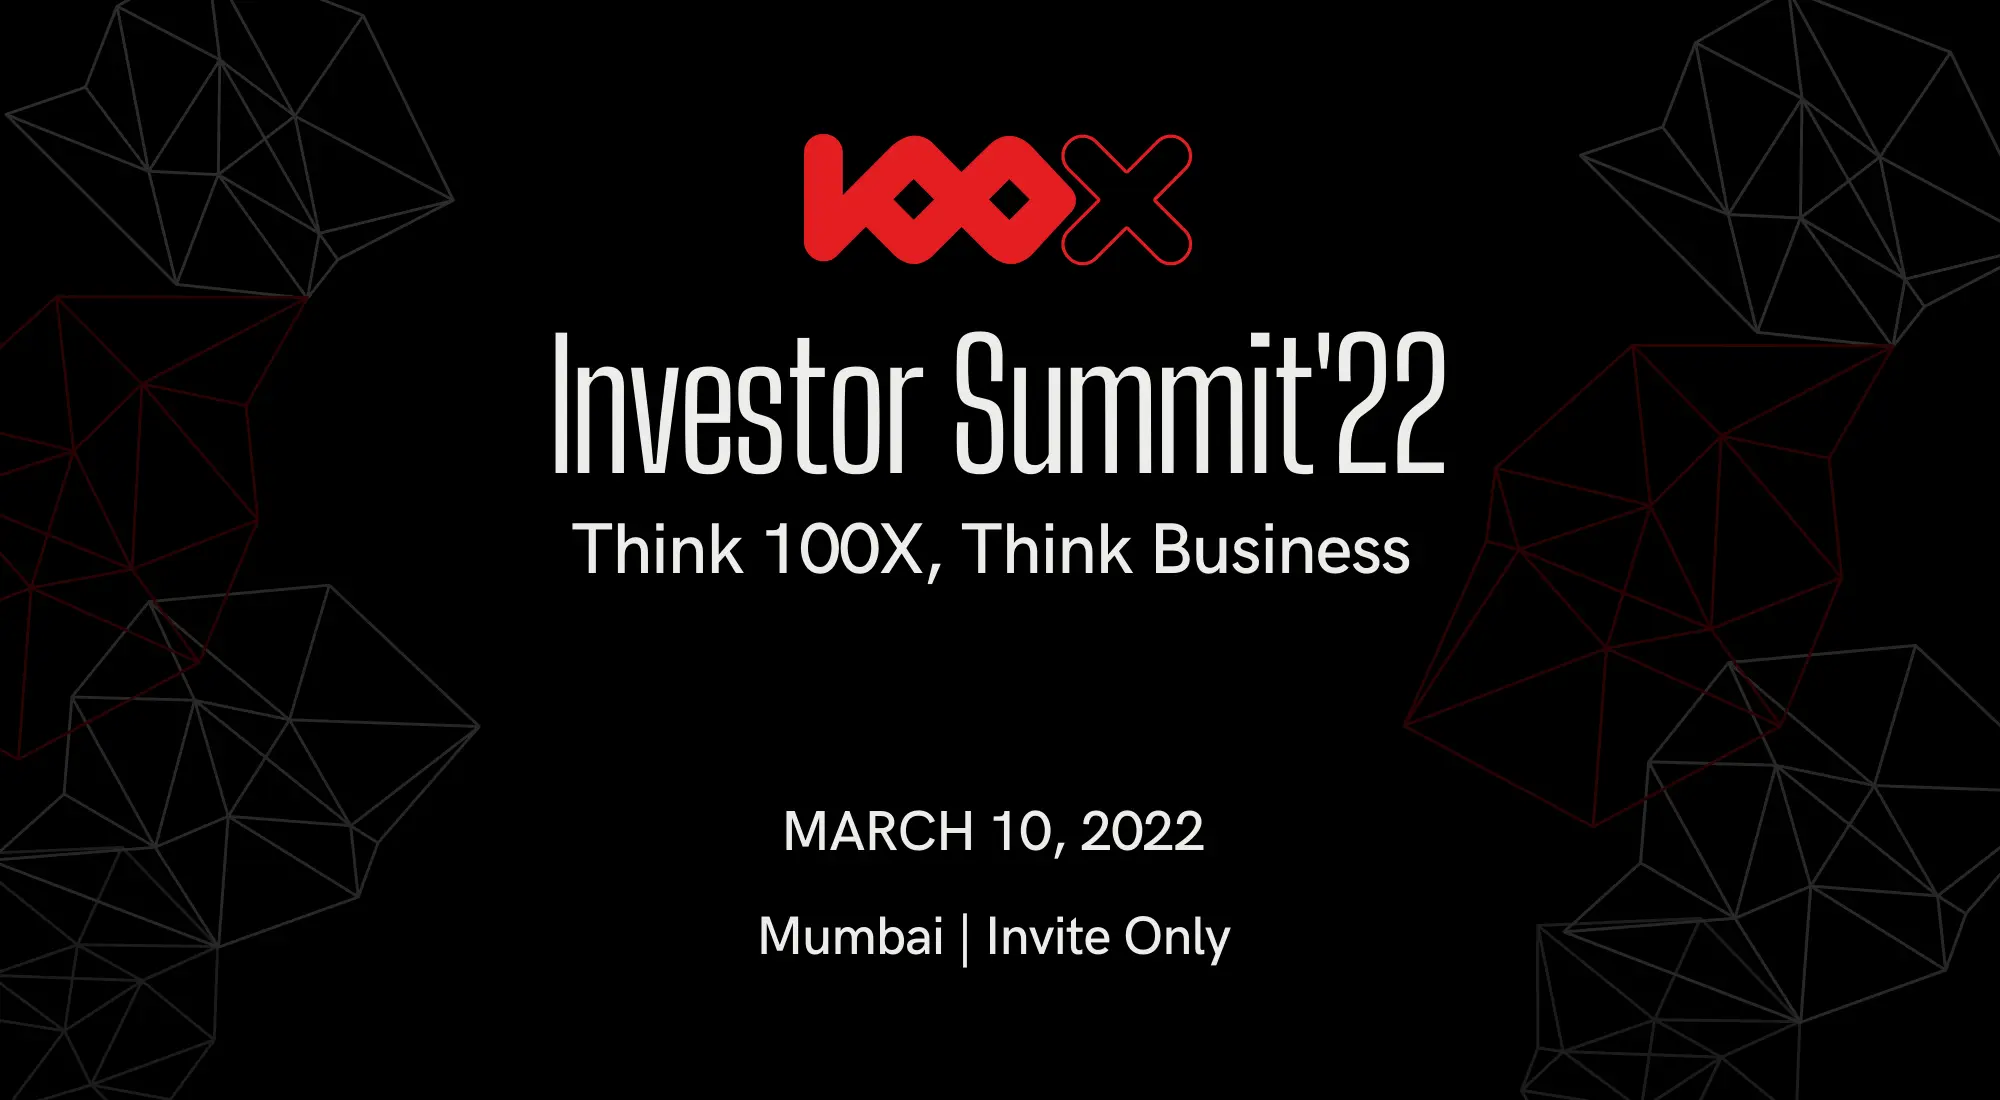
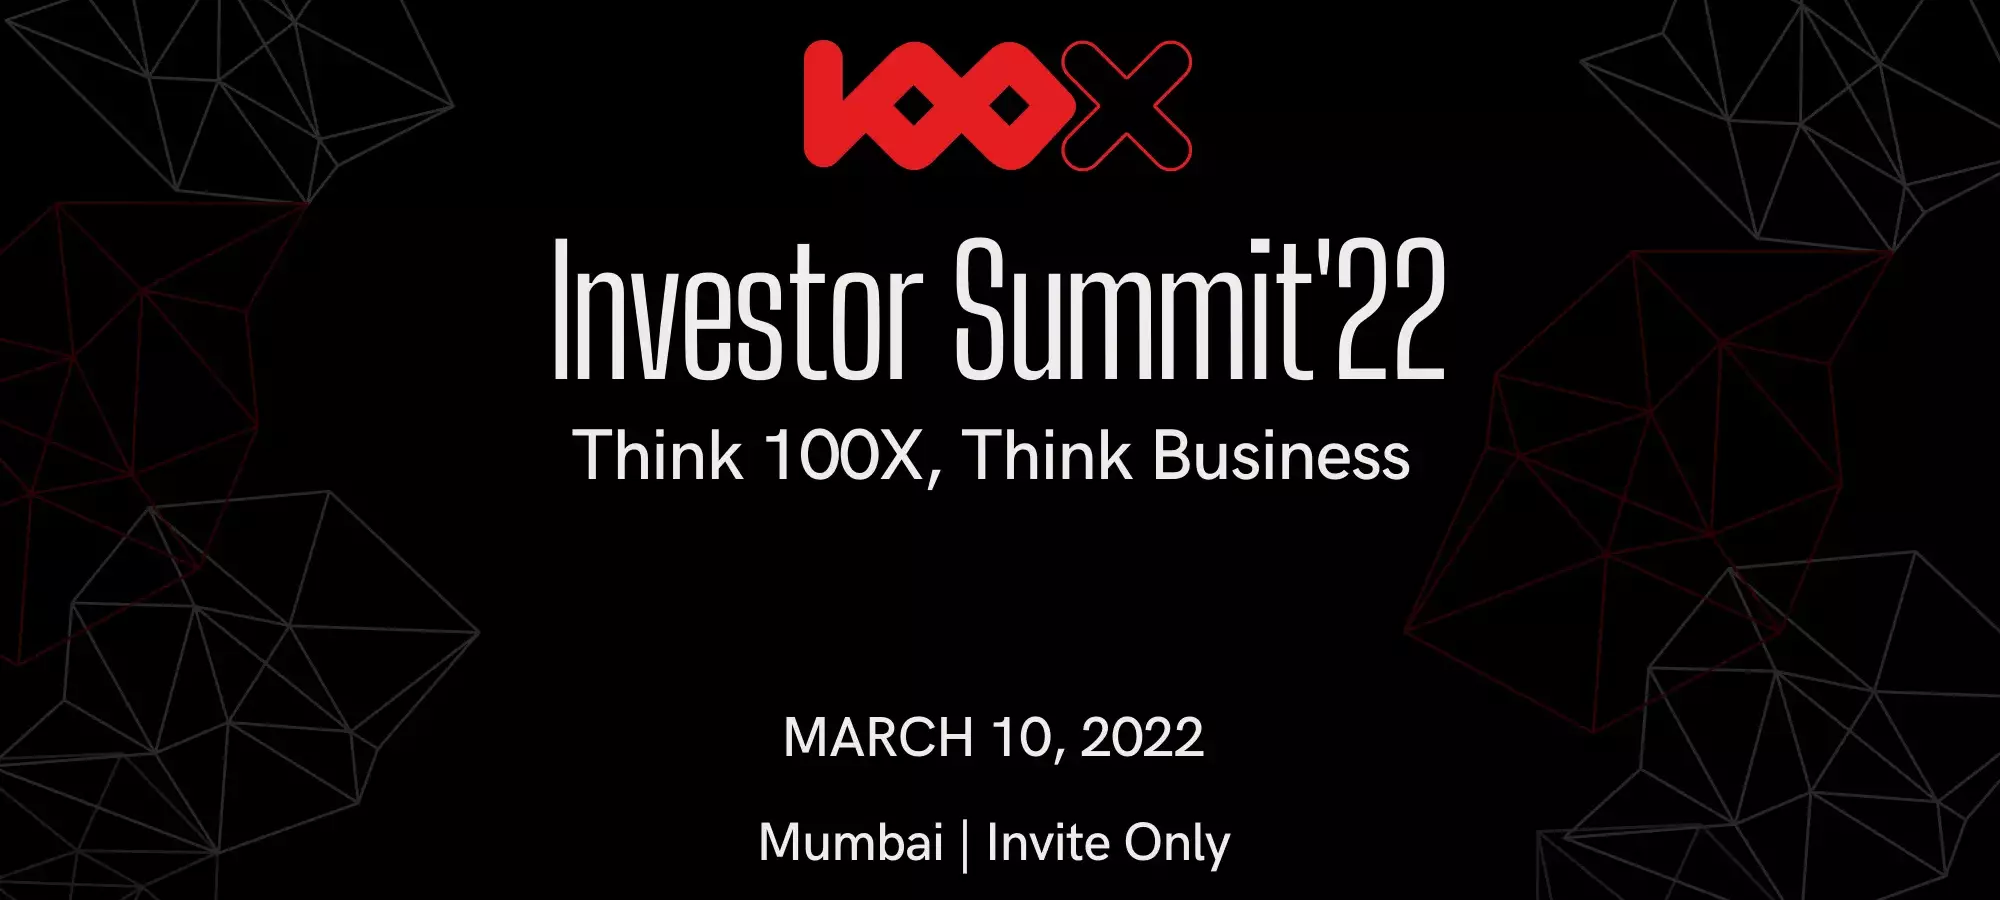
Og added, minor changes made in text. Image to be changed

diff --git a/index.html b/index.html
@@ -7,6 +7,29 @@
     <meta name="viewport" content="width=device-width">
     <meta name="viewport" content="width=device-width, initial-scale=1">
 
+    <meta name="twitter:card" content="
+        On 10th March 2022, in Mumbai, 100X.VC is hosting its first annual 100X Investor Summit. This will give delegates
+        unique access to the tech, entrepreneurs and investors of India. 100X invite means business.
+        We will deep dive into booming tech, trends & sectors that will help discover unicorns.
+        Get an opportunity to meet the hottest 100X startups while you listen to massively successful VC thought leaders
+        from the startup world.
+        Join 100X mission of improving access to early-stage capital, educating investors and building an India focused
+        startup community. Let’s build the best innovation ecosystem in India together.
+        This summit is designed to inspire exponential thinking."/>
+    <meta name="twitter:site" content="@100X_VC" />
+    <meta property="og:url" content="http://summit.100x.vc"/>
+    <meta property="og:title" content="100X.VC Investor Summit 2022 | India's biggest Summit Investor Summit" />
+    <meta property="og:description" content="
+        On 10th March 2022, in Mumbai, 100X.VC is hosting its first annual 100X Investor Summit. This will give delegates
+        unique access to the tech, entrepreneurs and investors of India. 100X invite means business.
+        We will deep dive into booming tech, trends & sectors that will help discover unicorns.
+        Get an opportunity to meet the hottest 100X startups while you listen to massively successful VC thought leaders
+        from the startup world.
+        Join 100X mission of improving access to early-stage capital, educating investors and building an India focused
+        startup community. Let’s build the best innovation ecosystem in India together.
+        This summit is designed to inspire exponential thinking."/>
+    <meta property="og:image" content="OgImage.png" />
+
     <!-- favicon -->
     <link rel="shortcut icon" href="logo.ico"/>
 
@@ -45,7 +68,7 @@
 </nav>
     <div class="container">
       <figure class="image"> 
-        <img src="hero.png">
+        <img src="hero.webp">
       </figure>
       <div class="section" style="background-color:black;">
         <div class="size-4 is-size-6-mobile has-text-centered">
@@ -59,30 +82,78 @@
         <!-- </div> -->
         <!-- <div class="subtitle is-3 is-size-5-mobile">Think 100X, Think Business.</div> -->
         <p class="is-size-5 is-size-6-mobile has-text-weight-light">
-        On <em><strong>10th March 2022</strong></em>, in Mumbai, we’re going to host our first annual 100X Investor Summit. This will give delegates
-        unique access to the tech, entrepreneurs and investors of India.  Do not think of this event as a vanity parade,
+        On 10th March 2022, in Mumbai, we’re going to host our first annual 100X Investor Summit. This will give delegates
+        unique access to the tech investors and entrepreneurs of India.  Do not think of this event as a vanity parade,
         100X invite means business. We will deep dive into booming tech, trends & sectors that will help discover unicorns.
         Get an opportunity to meet the hottest 100X startups while you listen to massively successful VC thought leaders
         from the startup world.<br><br>
         Join 100X mission of improving access to early-stage capital, educating investors and building an India focused
         startup community. Let’s build the best innovation ecosystem in India together.<br><br>
-        This summit is designed to inspire exponential thinking.<br><br>
+        <b>This summit is designed to inspire exponential thinking.</b><br><br>
         </p>
+        <!-- <h2 class="title is-size-2 is-size-4-mobile has-text-centered">Block Your Time</h2> -->
+        <!-- <span class="is-size-4 is-size-6-mobile has-text-weight-bold">Date: </span><span class="is-size-4 is-size-6-mobile has-text-weight-semi-bold is-italic">10th March, 2022</span><br> -->
+        <!-- <span class="is-size-4 is-size-6-mobile has-text-weight-bold">Time: </span><span class="is-size-4 is-size-6-mobile has-text-weight-semi-bold is-italic">9 AM - 5 PM</span><br><br> -->
+        <div class="columns">
+          <div class="column is-one-third">
+            <div class="card">
+              <div class="card-content">
+                <div class="media">
+                  <div class="media-content">
+                    <p class="title is-4">Date</p>
+                  </div>
+                </div>
+
+                <div class="content">
+                  <time datetime="2022-3-22">22 March 2022</time>
+                </div>
+              </div>
+            </div>
+          </div>
+
+          <div class="column is-one-third">
+            <div class="card">
+              <div class="card-content">
+                <div class="media">
+                  <div class="media-content">
+                    <p class="title is-4">Workshop</p>
+                  </div>
+                </div>
+
+                <div class="content">
+                  <time datetime="9:00AM IST">9AM</time>  - <time datetime="10:00AM IST">10AM</time>
+                </div>
+              </div>
+            </div>
+          </div>
+          <div class="column is-one-third">
+            <div class="card">
+              <div class="card-content">
+                <div class="media">
+                  <div class="media-content">
+                    <p class="title is-4">Speaker Sessions</p>
+                  </div>
+                </div>
+
+                <div class="content">
+                  <time datetime="10:00AM IST">10AM</time>  - <time datetime="5:00PM IST">5PM</time>
+                </div>
+              </div>
+            </div>
+          </div>
+        </div>
         <div class="size-4 is-size-6-mobile has-text-centered">
           <div class="button is-size-5" data-tf-popup="n13uWT0W" data-tf-iframe-props="title=100X.VC Investor Summit 2022" data-tf-medium="snippet">RSVP Now</div><script src="//embed.typeform.com/next/embed.js"></script>
         </div>
       </div>
       <div class="section">
-        <h2 class="title is-size-2 is-size-4-mobile">Block Your Time</h2>
-        <span class="is-size-4 is-size-6-mobile has-text-weight-bold">Date: </span><span class="is-size-4 is-size-6-mobile has-text-weight-semi-bold is-italic">10th March, 2022</span><br>
-        <span class="is-size-4 is-size-6-mobile has-text-weight-bold">Time: </span><span class="is-size-4 is-size-6-mobile has-text-weight-semi-bold is-italic">9 AM - 5 PM</span><br><br>
-        <h2 class="title is-size-2 is-size-4-mobile">Speakers</h2>
-        <p class="is-size-5 is-size-6-mobile has-text-weight-light">
-        Speakers will be announced soon
-        </p>
-        <div class="size-4 is-size-6-mobile has-text-centered">
-          <div class="button is-size-5" data-tf-popup="n13uWT0W" data-tf-iframe-props="title=100X.VC Investor Summit 2022" data-tf-medium="snippet">RSVP Now</div><script src="//embed.typeform.com/next/embed.js"></script>
-        </div>
+        <!-- <h2 class="title is-size-2 is-size-4-mobile">Speakers</h2> -->
+        <!-- <p class="is-size-5 is-size-6-mobile has-text-weight-light"> -->
+        <!-- Speakers will be announced soon -->
+        <!-- </p> -->
+        <!-- <div class="size-4 is-size-6-mobile has-text-centered"> -->
+          <!-- <div class="button is-size-5" data-tf-popup="n13uWT0W" data-tf-iframe-props="title=100X.VC Investor Summit 2022" data-tf-medium="snippet">RSVP Now</div><script src="//embed.typeform.com/next/embed.js"></script> -->
+        <!-- </div> -->
       </div>
     </div>
   </body>
